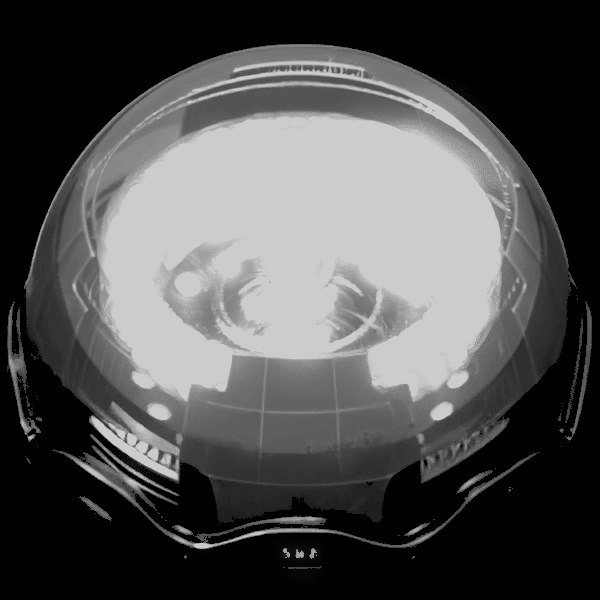
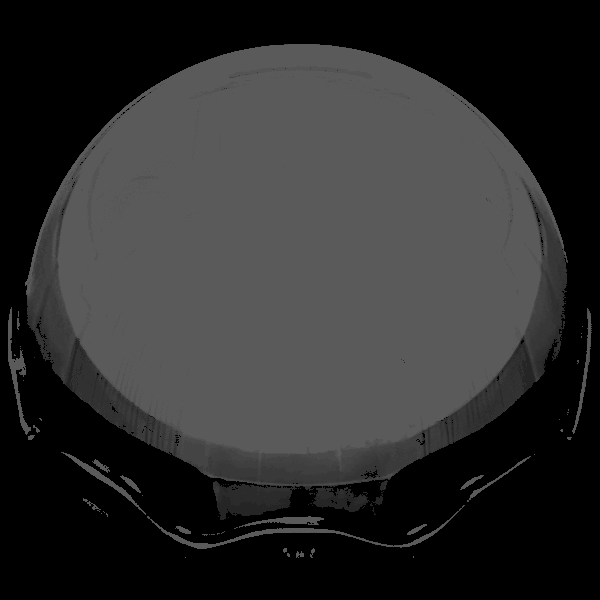
Update laborat overlays for more natural colorization

diff --git a/tasks/update-graphics.py b/tasks/update-graphics.py
@@ -191,16 +191,14 @@ def generate_laborat_images():
         # Blend light in additive mode
         overlay_grid = np.clip(overlay_grid + light, 0, 255)
 
-        # Static overlay: max brightness across all frames, independent of entity animation.
+        # Static overlay: minimum brightness across all frames, independent of entity animation.
         # Overlay animation cannot be synchronized with entity animation (rendering.draw_animation
         # starts from the current tick offset, not frame 0), so we use a single static frame.
-        static_overlay = np.zeros((frame_h, frame_w), dtype=np.float32)
-        for i in range(LABORAT_FRAMES):
-            frame_overlay = extract_frame(overlay_grid, i, frame_w, frame_h, LABORAT_COLS)
-            static_overlay = np.maximum(static_overlay, frame_overlay)
-
-        # Darken
-        static_overlay = np.clip(static_overlay * 0.8, 0, 255)
+        frames_stack = np.stack([
+            extract_frame(overlay_grid, i, frame_w, frame_h, LABORAT_COLS)
+            for i in range(LABORAT_FRAMES)
+        ], axis=0)
+        static_overlay = frames_stack.min(axis=0).clip(0, 90) # Clipping makes pixels inside the dome flat
         save_image(Image.fromarray(static_overlay.astype(np.uint8), "L"), overlay_dst)
 
         mask = make_mask_frame(anim.astype(np.uint8), overlay_grid > 10)
